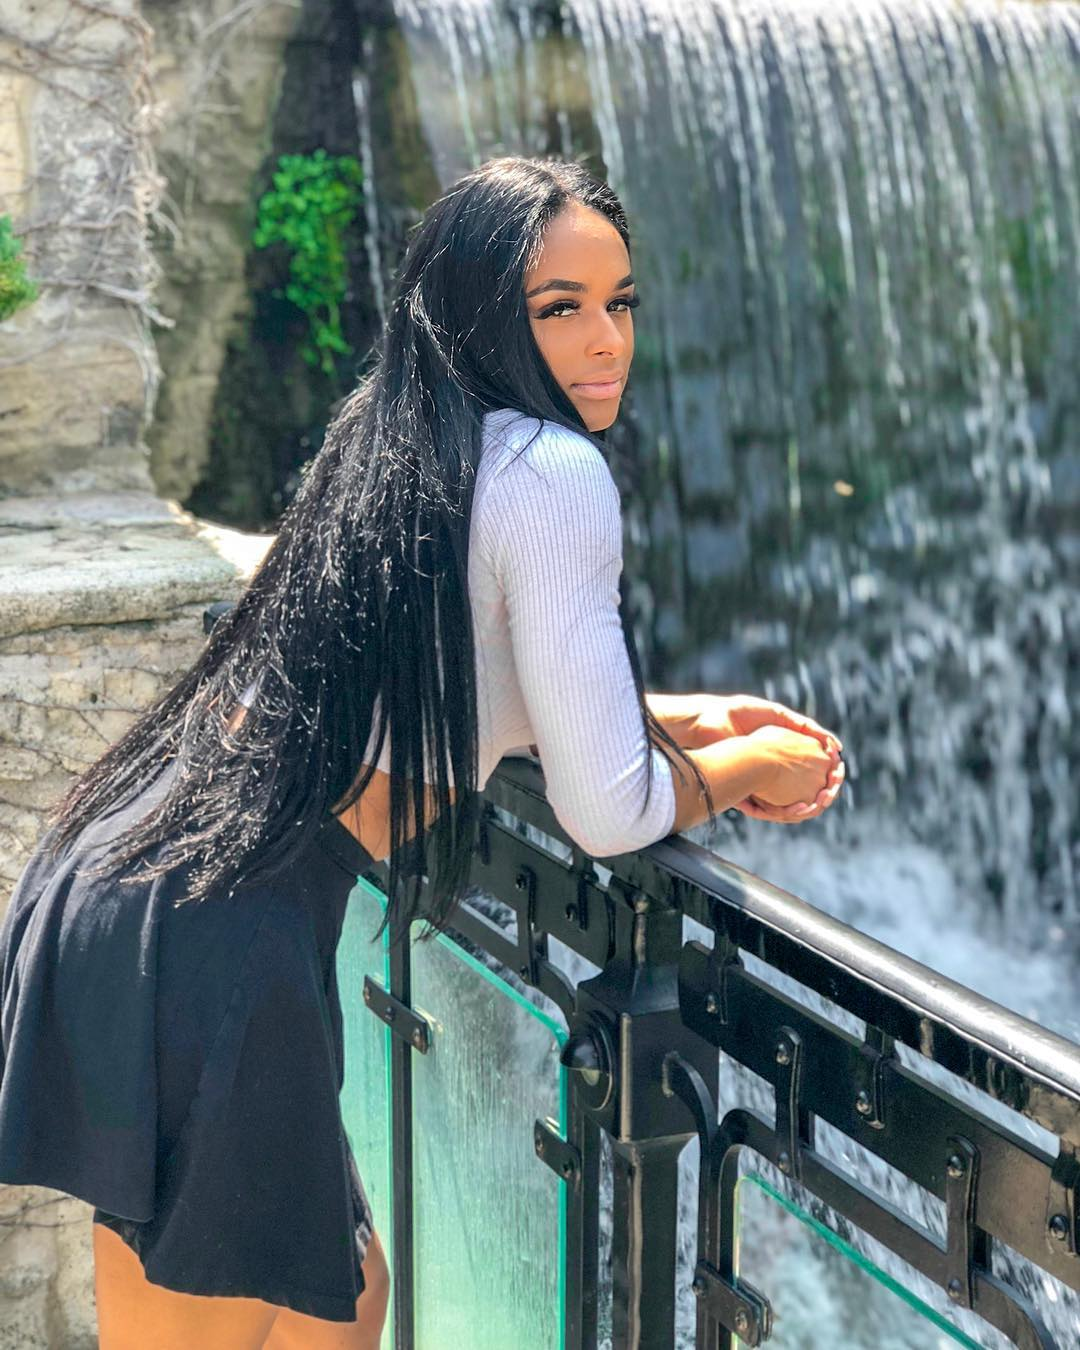
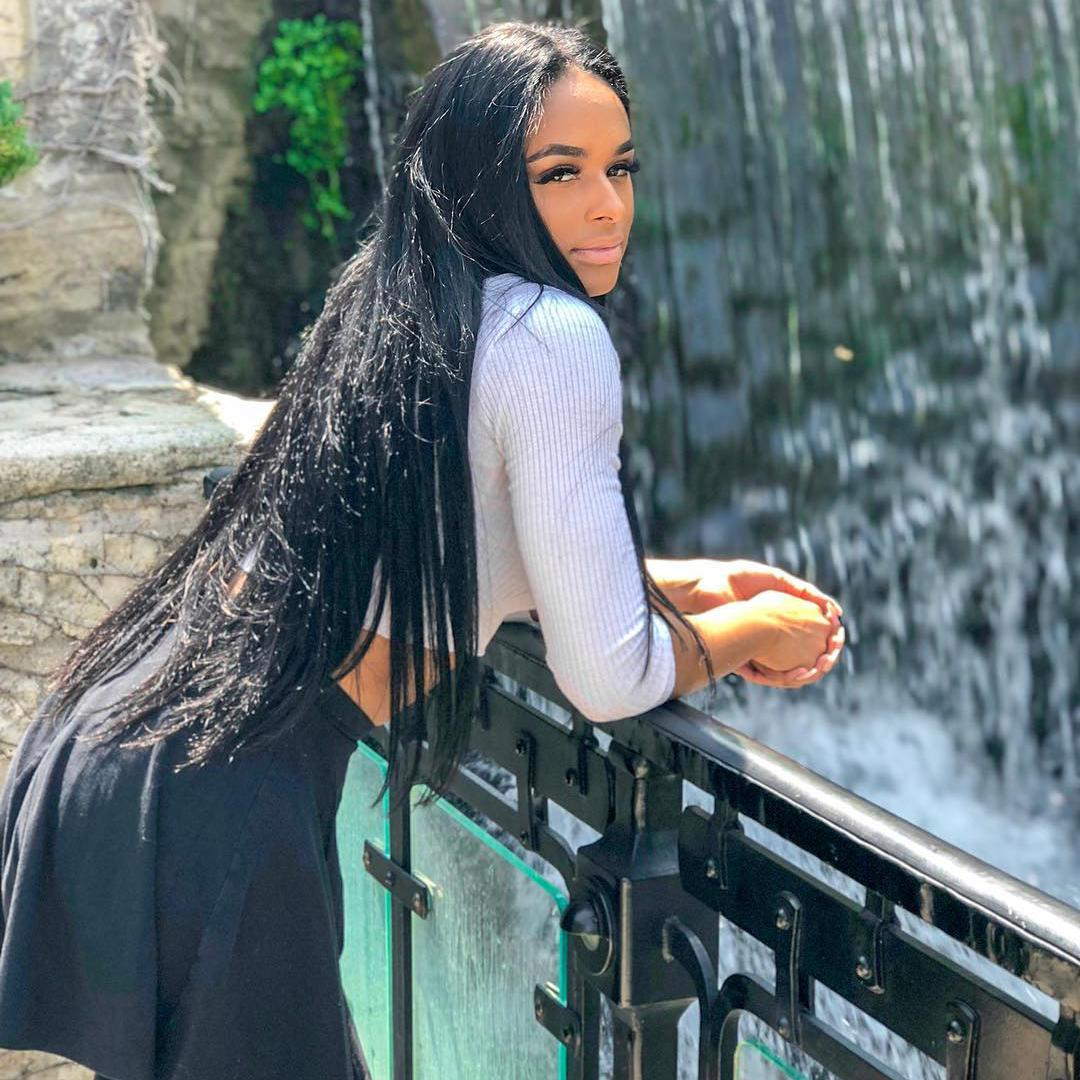
add photos

diff --git a/tool.py b/tool.py
@@ -1,0 +1,177 @@
+#coding: utf-8
+from PIL import Image
+import os
+import sys
+import json
+from datetime import datetime
+from ImageProcess import Graphics
+
+# 定义压缩比，数值越大，压缩越小
+SIZE_normal = 1.0
+SIZE_small = 1.5
+SIZE_more_small = 2.0
+SIZE_more_small_small = 3.0
+
+
+def make_directory(directory):
+    """创建目录"""
+    os.makedirs(directory)
+
+def directory_exists(directory):
+    """判断目录是否存在"""
+    if os.path.exists(directory):
+        return True
+    else:
+        return False
+
+def list_img_file(directory):
+    """列出目录下所有文件，并筛选出图片文件列表返回"""
+    old_list = os.listdir(directory)
+    # print old_list
+    new_list = []
+    for filename in old_list:
+        name, fileformat = filename.split(".")
+        if fileformat.lower() == "jpg" or fileformat.lower() == "png" or fileformat.lower() == "gif":
+            new_list.append(filename)
+    # print new_list
+    return new_list
+
+
+def print_help():
+    print("""
+    This program helps compress many image files
+    you can choose which scale you want to compress your img(jpg/png/etc)
+    1) normal compress(4M to 1M around)
+    2) small compress(4M to 500K around)
+    3) smaller compress(4M to 300K around)
+    """)
+
+def compress(choose, des_dir, src_dir, file_list):
+    """压缩算法，img.thumbnail对图片进行压缩，
+    
+    参数
+    -----------
+    choose: str
+            选择压缩的比例，有4个选项，越大压缩后的图片越小
+    """
+    if choose == '1':
+        scale = SIZE_normal
+    if choose == '2':
+        scale = SIZE_small
+    if choose == '3':
+        scale = SIZE_more_small
+    if choose == '4':
+        scale = SIZE_more_small_small
+    for infile in file_list:
+        img = Image.open(src_dir+infile)
+        # size_of_file = os.path.getsize(infile)
+        w, h = img.size
+        img.thumbnail((int(w/scale), int(h/scale)))
+        img.save(des_dir + infile)
+def compress_photo():
+    '''调用压缩图片的函数
+    '''
+    src_dir, des_dir = "photos/", "min_photos/"
+    
+    if directory_exists(src_dir):
+        if not directory_exists(src_dir):
+            make_directory(src_dir)
+        # business logic
+        file_list_src = list_img_file(src_dir)
+    if directory_exists(des_dir):
+        if not directory_exists(des_dir):
+            make_directory(des_dir)
+        file_list_des = list_img_file(des_dir)
+        # print file_list
+    '''如果已经压缩了，就不再压缩'''
+    for i in range(len(file_list_des)):
+        if file_list_des[i] in file_list_src:
+            file_list_src.remove(file_list_des[i])
+    compress('4', des_dir, src_dir, file_list_src)
+
+def handle_photo():
+    '''根据图片的文件名处理成需要的json格式的数据
+    
+    -----------
+    最后将data.json文件存到博客的source/photos文件夹下
+    '''
+    src_dir, des_dir = "photos/", "min_photos/"
+    file_list = list_img_file(src_dir)
+    list_info = []
+    for i in range(len(file_list)):
+        filename = file_list[i]
+        date_str, info = filename.split("_")
+        info, _ = info.split(".")
+        date = datetime.strptime(date_str, "%Y-%m-%d")
+        year_month = date_str[0:7]            
+        if i == 0:  # 处理第一个文件
+            new_dict = {"date": year_month, "arr":{'year': date.year,
+                                                                   'month': date.month,
+                                                                   'link': [filename],
+                                                                   'text': [info],
+                                                                   'type': ['image']
+                                                                   }
+                                        } 
+            list_info.append(new_dict)
+        elif year_month != list_info[-1]['date']:  # 不是最后的一个日期，就新建一个dict
+            new_dict = {"date": year_month, "arr":{'year': date.year,
+                                                   'month': date.month,
+                                                   'link': [filename],
+                                                   'text': [info],
+                                                   'type': ['image']
+                                                   }
+                        }
+            list_info.append(new_dict)
+        else:  # 同一个日期
+            list_info[-1]['arr']['link'].append(filename)
+            list_info[-1]['arr']['text'].append(info)
+            list_info[-1]['arr']['type'].append('image')
+    list_info.reverse()  # 翻转
+    final_dict = {"list": list_info}
+    with open("../jarWorker.github.io/blob/master/photos/data.json.json","w") as fp:
+        json.dump(final_dict, fp)
+def cut_photo():
+    """裁剪算法
+    
+    ----------
+    调用Graphics类中的裁剪算法，将src_dir目录下的文件进行裁剪（裁剪成正方形）
+    """
+    src_dir = "photos/"
+    if directory_exists(src_dir):
+        if not directory_exists(src_dir):
+            make_directory(src_dir)
+        # business logic
+        file_list = list_img_file(src_dir)
+        # print file_list
+        if file_list:
+            print_help()
+            for infile in file_list:
+                img = Image.open(src_dir+infile)
+                Graphics(infile=src_dir+infile, outfile=src_dir + infile).cut_by_ratio()            
+        else:
+            pass
+    else:
+        print("source directory not exist!")     
+
+
+
+def git_operation():
+    '''
+    git 命令行函数，将仓库提交
+    
+    ----------
+    需要安装git命令行工具，并且添加到环境变量中
+    '''
+    os.system('git add --all')
+    os.system('git commit -m "add photos"')
+    os.system('git push origin master')
+
+if __name__ == "__main__":
+    cut_photo()        # 裁剪图片，裁剪成正方形，去中间部分
+    compress_photo()   # 压缩图片，并保存到mini_photos文件夹下
+    git_operation()    # 提交到github仓库
+    handle_photo()     # 将文件处理成json格式，存到博客仓库中
+    
+    
+    
+    

diff --git a/ImageProcess.py b/ImageProcess.py
@@ -1,0 +1,81 @@
+# coding=utf-8  
+from PIL import Image  
+import shutil  
+import os  
+
+class Graphics:  
+    '''图片处理类
+    
+    参数
+    -------
+    infile: 输入文件路径
+    outfile: 输出文件路径
+    '''
+    def __init__(self, infile, outfile):
+        self.infile = infile
+        self.outfile = outfile
+
+    def fixed_size(self, width, height):  
+        """按照固定尺寸处理图片"""  
+        im = Image.open(self.infile)  
+        out = im.resize((width, height),Image.ANTIALIAS)  
+        out.save(self.outfile)  
+
+
+    def resize_by_width(self, w_divide_h):  
+        """按照宽度进行所需比例缩放"""  
+        im = Image.open(self.infile)  
+        (x, y) = im.size   
+        x_s = x  
+        y_s = x/w_divide_h  
+        out = im.resize((x_s, y_s), Image.ANTIALIAS)   
+        out.save(self.outfile)  
+
+
+    def resize_by_height(self, w_divide_h):  
+        """按照高度进行所需比例缩放"""  
+        im = Image.open(self.infile)  
+        (x, y) = im.size   
+        x_s = y*w_divide_h  
+        y_s = y  
+        out = im.resize((x_s, y_s), Image.ANTIALIAS)   
+        out.save(self.outfile)  
+
+
+    def resize_by_size(self, size):  
+        """按照生成图片文件大小进行处理(单位KB)"""  
+        size *= 1024  
+        im = Image.open(self.infile)  
+        size_tmp = os.path.getsize(self.infile)  
+        q = 100  
+        while size_tmp > size and q > 0:  
+            print (q)  
+            out = im.resize(im.size, Image.ANTIALIAS)  
+            out.save(self.outfile, quality=q)  
+            size_tmp = os.path.getsize(self.outfile)  
+            q -= 5  
+        if q == 100:  
+            shutil.copy(self.infile, self.outfile)  
+
+  
+    def cut_by_ratio(self):  
+        """按照图片长宽进行分割
+        
+        ------------
+        取中间的部分，裁剪成正方形
+        """  
+        im = Image.open(self.infile)  
+        (x, y) = im.size  
+        if x > y:  
+            region = (int(x/2-y/2), 0, int(x/2+y/2), y)  
+            #裁切图片  
+            crop_img = im.crop(region)  
+            #保存裁切后的图片  
+            crop_img.save(self.outfile)             
+        elif x < y:  
+            region = (0, int(y/2-x/2), x, int(y/2+x/2))
+            #裁切图片  
+            crop_img = im.crop(region)  
+            #保存裁切后的图片  
+            crop_img.save(self.outfile)             
+
